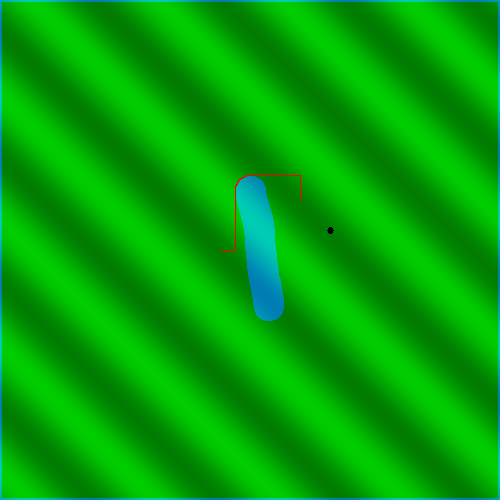
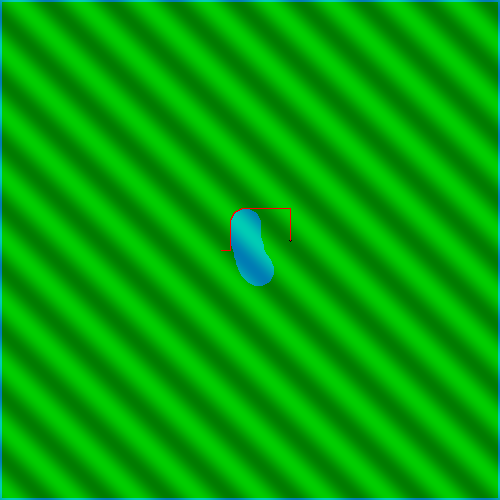
up

diff --git a/src/main/java/engine/bot/AibotGA/AiBotGA.java b/src/main/java/engine/bot/AibotGA/AiBotGA.java
@@ -3,6 +3,7 @@ package engine.bot.AibotGA;
 
 import engine.solvers.GolfGameEngine;
 
+import java.util.ArrayList;
 import java.util.Arrays;
 import java.util.Random;
 
@@ -12,10 +13,11 @@ import java.util.Random;
 public class AiBotGA {
     private int popSize=50;
     private char[] vocab={'0','1'};
-    private double mutationRate=0.01;
+    private double mutationRate=0.02;
     private double[] solution=new double[4];
     private boolean goal=false;
     private double[] des;
+    private ArrayList<double[]> shortestPath;
 
     private GolfGameEngine game;
 
@@ -40,7 +42,39 @@ public class AiBotGA {
         initialPopulation(population, x0);
  
         // Run the algorithm for 700 generations
-        for (int i = 0; i < 700; i++) {
+        for (int i = 0; i < 200; i++) {
+            int[] slcIndex=selection(population);
+            crossover(population[slcIndex[0]], population[slcIndex[1]], population);
+            population[popSize-1].setFitness(calculateFitness(population[popSize-1], x.clone()));
+            population[popSize-2].setFitness(calculateFitness(population[popSize-2], x.clone()));
+            if (this.goal) {
+                break;
+            }
+            HeapSort.sort(population);
+            // System.out.println(population[0].getFitness()+"  "+i);
+        }
+        // If the goal is not reached, set the solution to the best solution found
+        if (!this.goal) {
+            double[] best=x0;
+            best[2]=population[0].genoToPhenotype()[0];
+            best[3]=population[0].genoToPhenotype()[1];
+            this.solution=best.clone();
+        }
+        
+    }
+
+    public void golfBotMultiShot(double[] x){
+        Individual[] population=new Individual[popSize];
+        double[] x0=x.clone();
+
+        MapSearcher mapSearcher=new MapSearcher(game.getMapPath(), x0, game.getHole(), game.getHoleRadius());
+        shortestPath=mapSearcher.findShortestPath();
+
+        // initiate population
+        initialPopulation(population, x0);
+ 
+        // Run the algorithm for 700 generations
+        for (int i = 0; i < 500; i++) {
             int[] slcIndex=selection(population);
             crossover(population[slcIndex[0]], population[slcIndex[1]], population);
             population[popSize-1].setFitness(calculateFitness(population[popSize-1], x.clone()));
@@ -120,10 +154,27 @@ public class AiBotGA {
      * @param x The current position of the ball.
      * @return The fitness of the individual.
      */
+    // double calculateFitness(Individual indi, double[] x){
+        
+    //     double ball_hole_distance=game.getHoleBallDistance(x);
+
+    //     x[2]=indi.genoToPhenotype()[0];
+    //     x[3]=indi.genoToPhenotype()[1];
+    //     double[] x0=x.clone();
+    //     game.shoot(x,false);
+    //     if (game.isGoal() && !this.goal) {
+    //         this.solution=x0.clone();
+    //         this.goal=true;
+    //         System.out.println("Goal!!!!!!!in calcu fitness");;
+    //     }
+    //     double fit=-Math.log10((game.getMinDistance()+0.01)/(ball_hole_distance+0.01));
+        
+    //     return fit;
+    // }
+
     double calculateFitness(Individual indi, double[] x){
         
-        double ball_hole_distance=game.getHoleBallDistance(x);
-
+        double fit = 1;
         x[2]=indi.genoToPhenotype()[0];
         x[3]=indi.genoToPhenotype()[1];
         double[] x0=x.clone();
@@ -133,8 +184,13 @@ public class AiBotGA {
             this.goal=true;
             System.out.println("Goal!!!!!!!in calcu fitness");;
         }
-        double fit=-Math.log10((game.getMinDistance()+0.01)/(ball_hole_distance+0.01));
-        
+
+        for (int i =0; i<shortestPath.size();i++) {
+            if (game.getDistance(game.getStoppoint(), shortestPath.get(i))<=game.getHoleRadius()) {
+                fit = i+5;
+            }
+        }
+       
         return fit;
     }
 

diff --git a/src/main/java/engine/bot/AibotGA/MapSearcher.java b/src/main/java/engine/bot/AibotGA/MapSearcher.java
@@ -20,7 +20,7 @@ public class MapSearcher {
 
     MapSearcher(String mappath, double[] startBallPostion,double[] holePostion, double r){
         MapHandler map=new MapHandler();
-        // map.readmap(mappath);
+        
         map.readmap(mappath);
         this.grass=map.getGrass();
         this.startBallPostion=Utility.coordinateToPixel(startBallPostion);
@@ -28,7 +28,7 @@ public class MapSearcher {
         this.r=Utility.ratio*r;
     }
 
-    private ArrayList<double[]> findShortestPath(){
+    public ArrayList<double[]> findShortestPath(){
         
         Set<int[]> visited=new HashSet<>();
         visited.add(startBallPostion.clone());
@@ -122,7 +122,7 @@ public class MapSearcher {
     
 
     public static void main(String[] args) {
-       MapSearcher mapSearcher=new MapSearcher("src/main/resources/userInputMap.png", new double[]{-3,0}, new double[]{5,5}, 0.1);
+       MapSearcher mapSearcher=new MapSearcher("src/main/resources/userInputMap.png", new double[]{-3,0}, new double[]{4,1}, 0.1);
        ArrayList<double[]> test=mapSearcher.findShortestPath();
        for (double[] entry:test) {
             System.out.println(Arrays.toString(entry));

diff --git a/src/main/java/engine/solvers/GolfGameEngine.java b/src/main/java/engine/solvers/GolfGameEngine.java
@@ -190,6 +190,14 @@ public class GolfGameEngine {
         return this.goal;
     }
 
+    public double getStoppedToHoleDistance(){
+        return getHoleBallDistance(this.stopCoordinate);
+    }
+
+    public String getMapPath(){
+        return this.mappath;
+    }
+
     /**
      * Calculates the distance between the hole and the ball.
      * @param x Current position of the ball.
@@ -229,6 +237,10 @@ public class GolfGameEngine {
      */
     public BallStatus getStatus(){
         return this.status;
+    }
+
+    public double getHoleRadius(){
+        return this.r;
     }
 
     /**

diff --git a/src/main/java/ui/controller/ThirdScreenController.java b/src/main/java/ui/controller/ThirdScreenController.java
@@ -731,7 +731,7 @@ public class ThirdScreenController implements ScreenInterface {
         logEvent("!!--GA bot entered the party (it is slow, be patient)--!!");
         AiBotGA gaBot = new AiBotGA(golfGame,HolePostion);
         double[] x = {BallPosition[0], BallPosition[1], 0, 0};
-        gaBot.golfBot(x);
+        gaBot.golfBotMultiShot(x);
         double[] solution = gaBot.getBest();
         double[] velocity = {solution[2], solution[3]};
         ballHit(Utility.getPowerFromVelocity(velocity), Utility.getDirectionFromVelocity(velocity));

diff --git a/src/main/java/engine/bot/AibotGA/MyFitnessStrategy.java b/src/main/java/engine/bot/AibotGA/MyFitnessStrategy.java
@@ -1,0 +1,6 @@
+package engine.bot.AibotGA;
+
+public interface MyFitnessStrategy {
+
+    public double setFitness();
+} 
